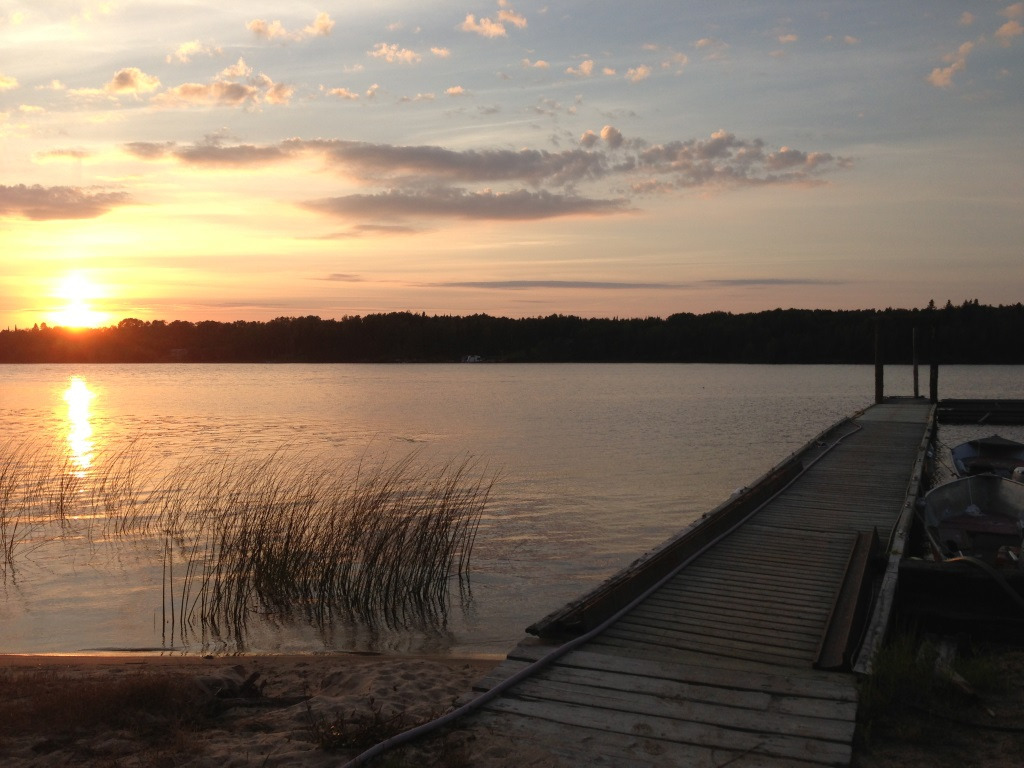
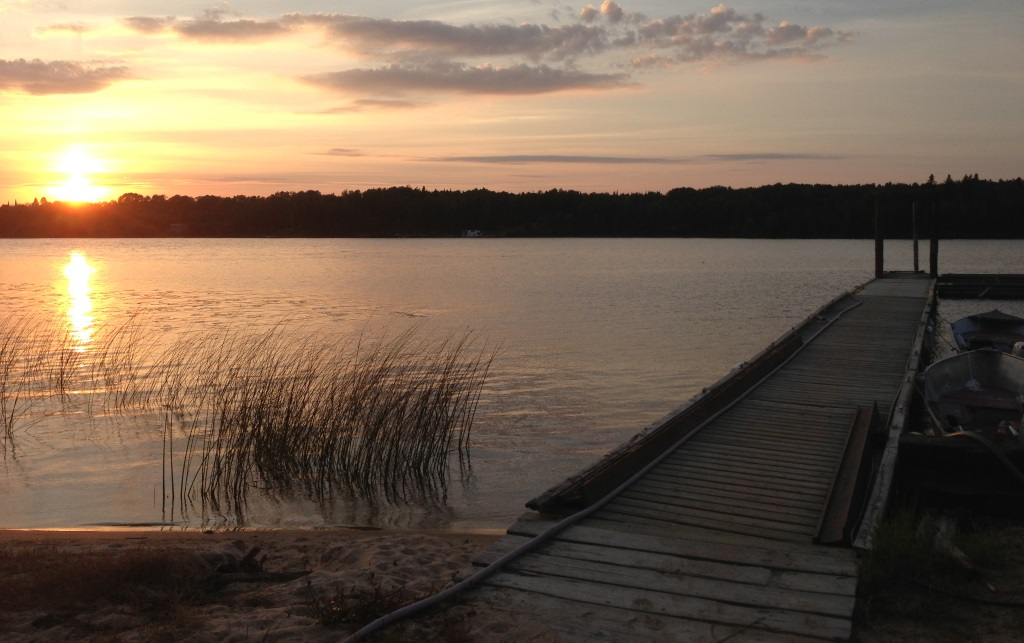
Shrinking the title image a bit

diff --git a/_drafts/the-deployment-first-extreme.md b/_drafts/the-deployment-first-extreme.md
@@ -4,7 +4,7 @@ title:  "Deployment First To The Extreme"
 date:   2015-02-17 23:15:07
 tags: deployment projects
 image:
-  feature: limit.jpg
+  feature: limit-2.jpg
 ---
 
 In my previous post about [how to start new projects][new-projects] I talked
